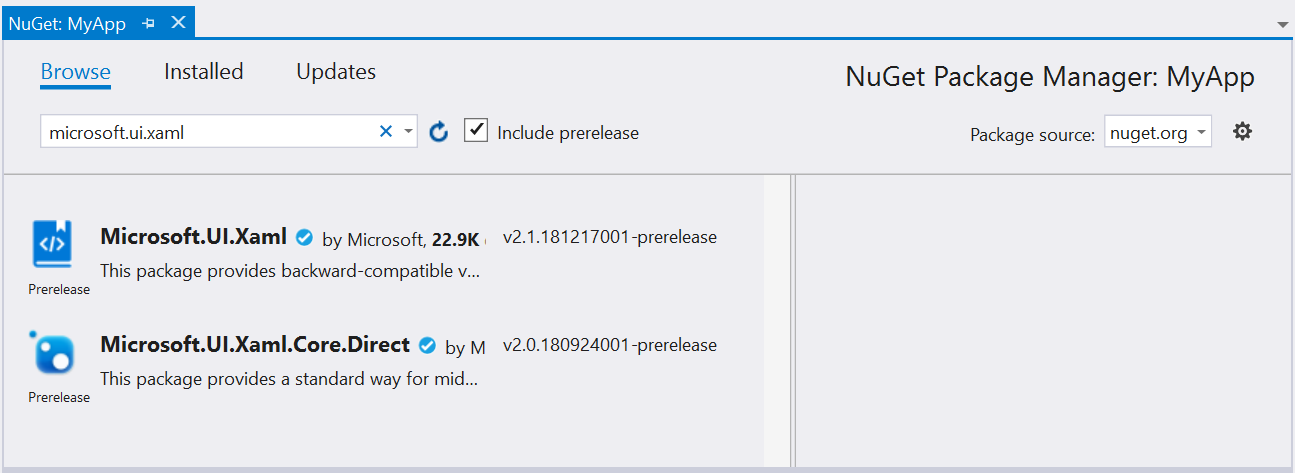
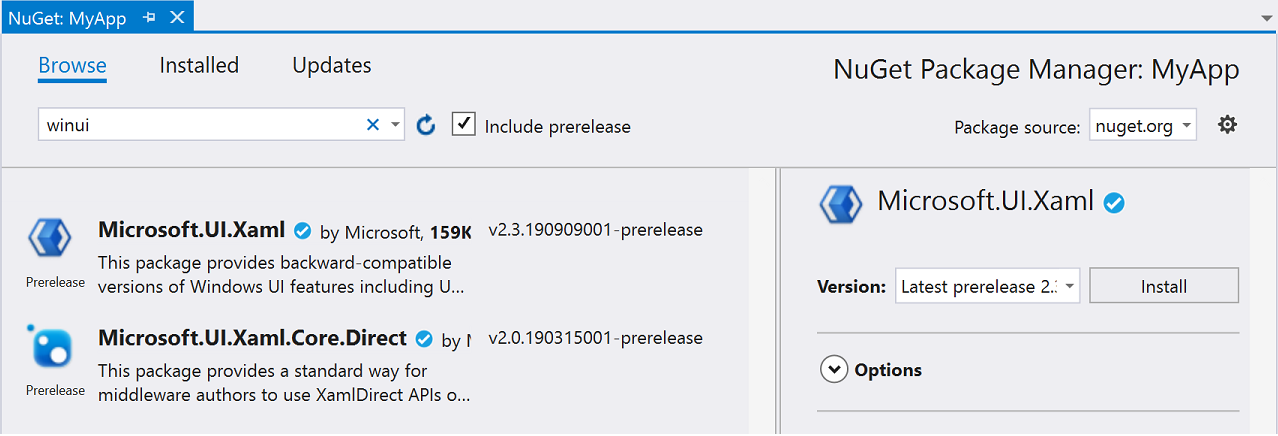
update WinUI NuGet screenshot
Update screenshot with new WinUI logo

diff --git a/winrt-related-src/toolkits/winui/getting-started.md b/winrt-related-src/toolkits/winui/getting-started.md
@@ -22,7 +22,7 @@ The toolkit is available as NuGet packages that can be added to any existing or 
 2. Open an existing project, or create a new project using the Blank App template under Visual C# -> Windows -> Universal, or the appropriate template for your language projection.  
     > **Important**:  To use WinUI 2.1, your project’s Min version must be 14393 or higher and the Target version must be 17763 or higher.   
 
-3. In the Solution Explorer panel, right click on your project name and select **Manage NuGet Packages**. Select the **Browse** tab, and search for **Microsoft.UI.Xaml**. Then choose which [Windows UI Library NuGet Packages](nuget-packages.md) you want to use.   
+3. In the Solution Explorer panel, right click on your project name and select **Manage NuGet Packages**. Select the **Browse** tab, and search for **Microsoft.UI.Xaml** or **WinUI**. Then choose which [Windows UI Library NuGet Packages](nuget-packages.md) you want to use.   
 The **Microsoft.UI.Xaml** package contains Fluent controls and features suitable for all apps.  
 You can optionally check "Include prerelease" to see the latest prerelease versions that include experimental new features.
 
